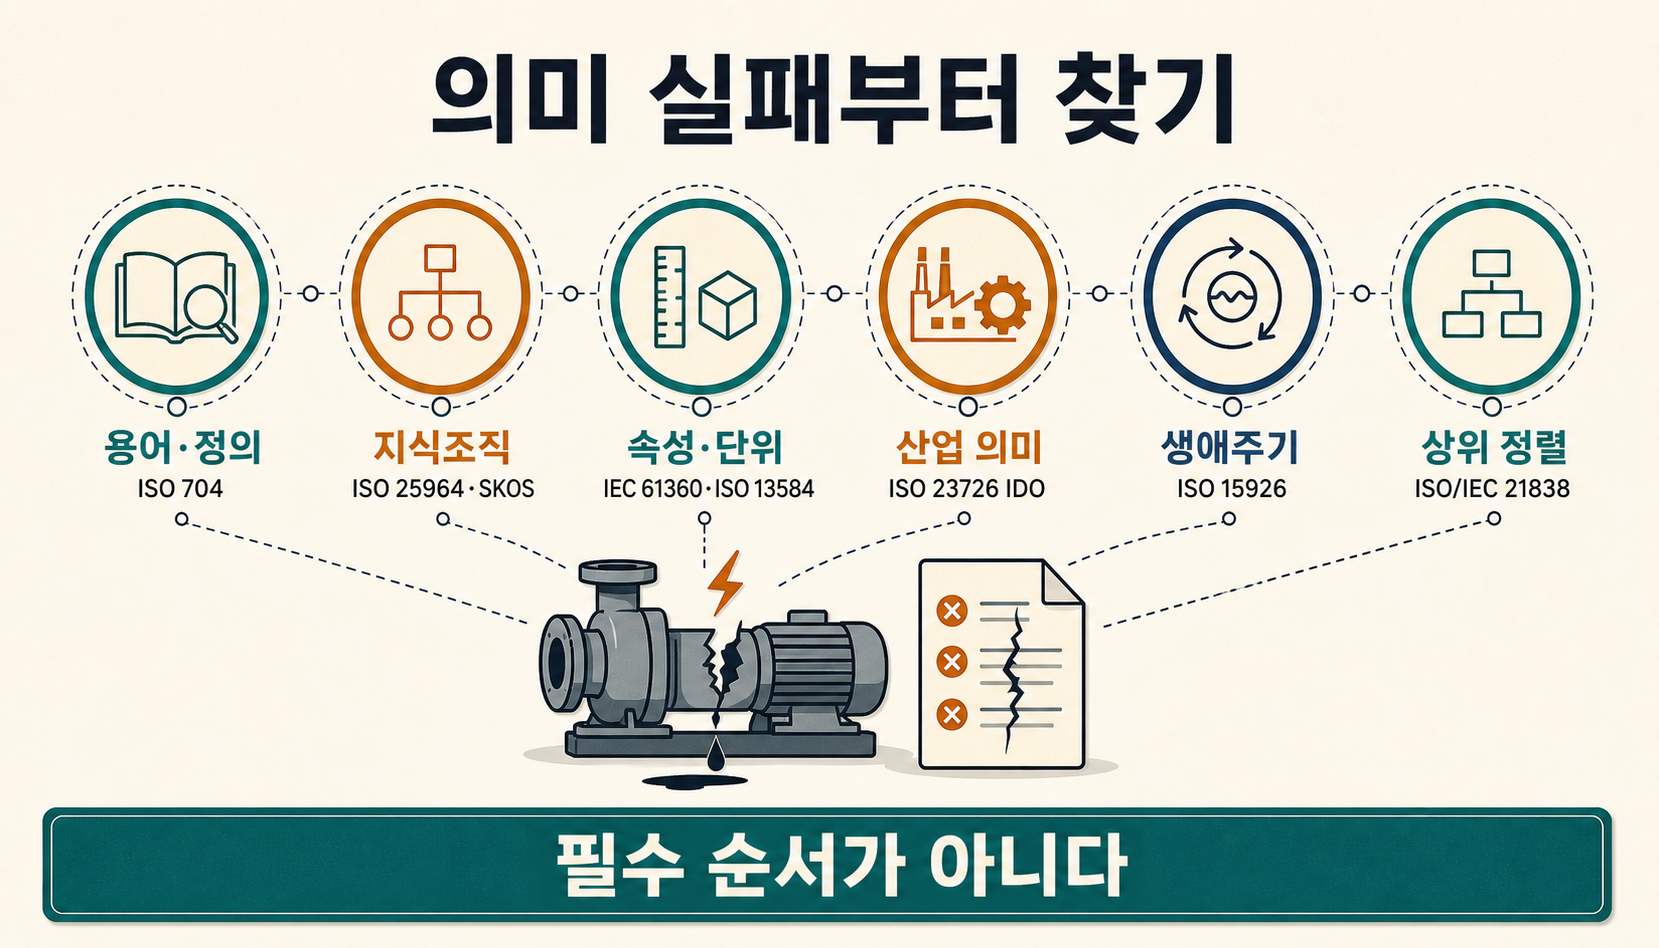
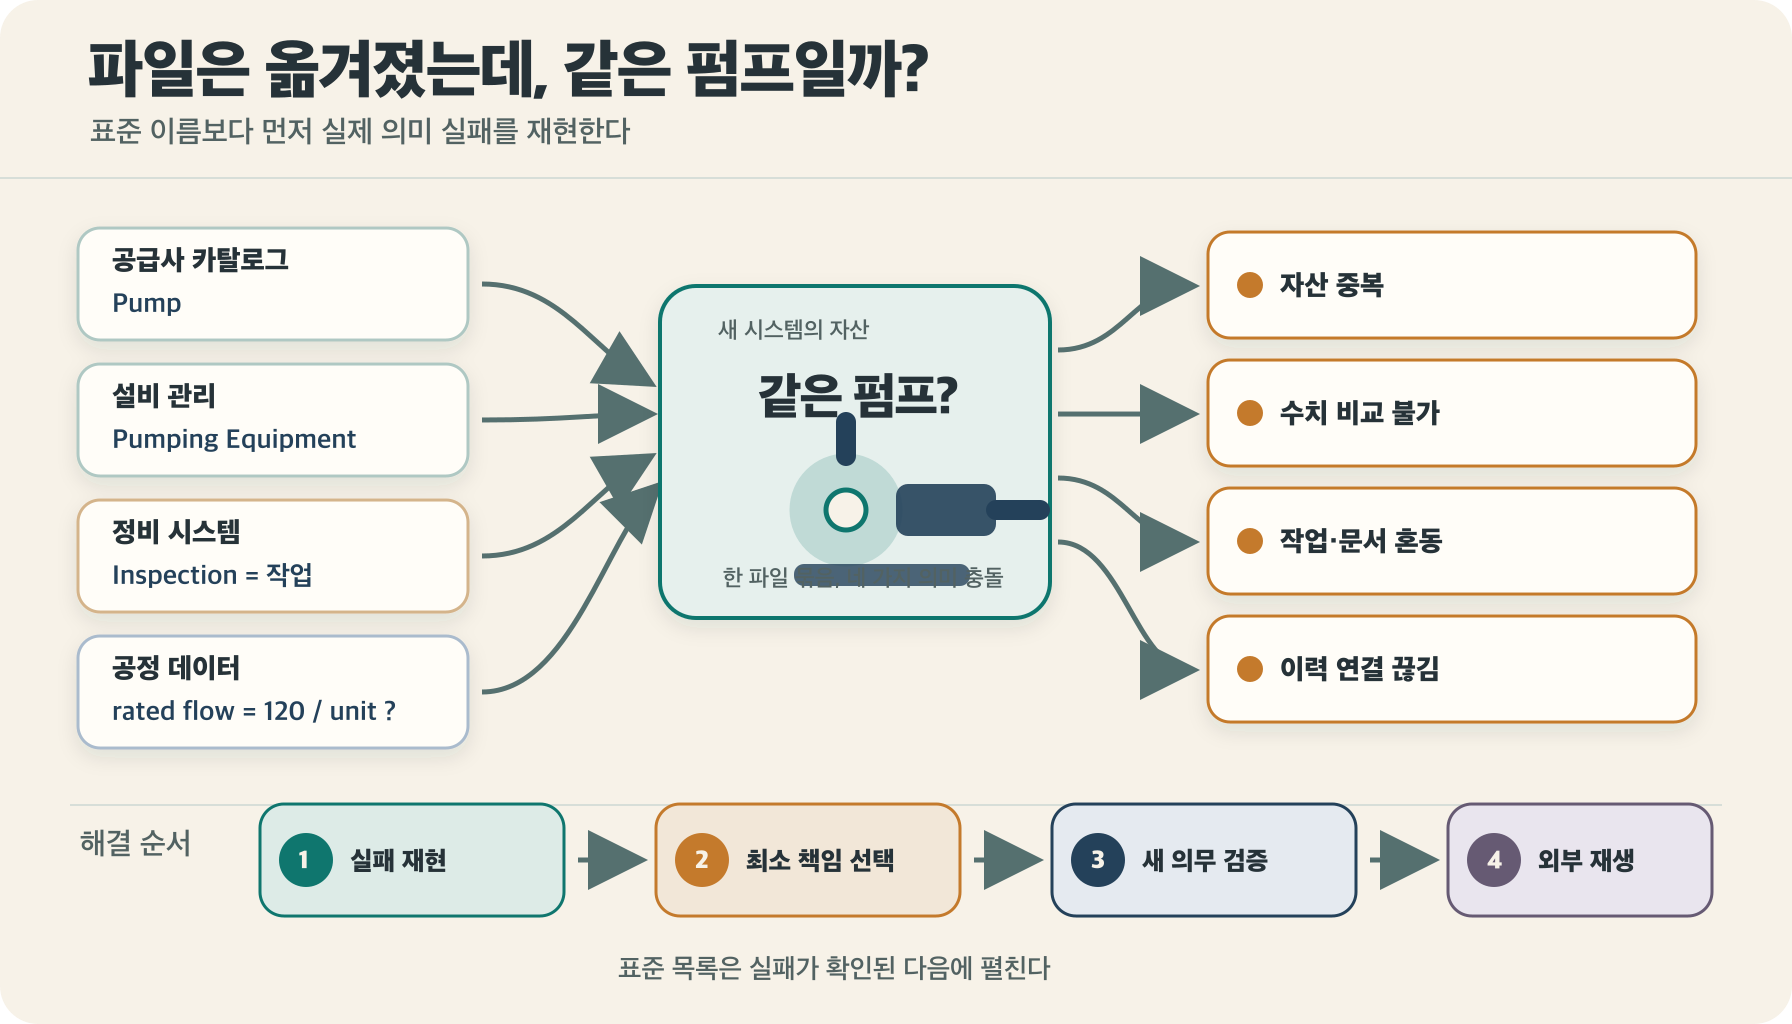
Reframe ontology standards guide around failures

diff --git a/content/notes/온톨로지/industrial-ontology-standards-responsibility-map.md b/content/notes/온톨로지/industrial-ontology-standards-responsibility-map.md
@@ -1,6 +1,6 @@
 ---
 title: "31. 온톨로지 표준은 왜 이렇게 많은가"
-description: "ISO 704·SKOS·IEC 61360·ISO 23726 IDO·ISO 15926·ISO/IEC 21838을 성숙도 사다리가 아니라 의미 실패별 책임 지도로 읽고, 필요한 최소 표준만 선택하는 방법을 설명합니다."
+description: "플랫폼에서 꺼낸 같은 펌프가 시스템마다 다른 자산·수치·작업·이력으로 해석되는 문제를 출발점으로, 산업 온톨로지 표준을 의미 실패별 책임 지도로 읽고 필요한 최소 책임만 선택하는 방법을 설명합니다."
 date: 2026-08-30
 tags:
   - 온톨로지
@@ -10,44 +10,29 @@ tags:
   - 지식그래프
 ---
 
-![산업 온톨로지 표준을 용어, 지식조직, 속성 사전, 산업 의미 모델, 생애주기 통합, 상위 정렬의 서로 다른 책임으로 나눈 전체 지도](../../attachments/industrial-ontology-standards-responsibility-map/industrial-ontology-standards-responsibility-map-infographic.png)
+![공급사 카탈로그, 설비 관리, 정비, 공정 데이터 플랫폼에서 같은 펌프가 이름·단위·작업·이력 충돌로 갈라지고, 실패 재현 뒤 필요한 의미 책임만 선택하는 흐름](../../attachments/industrial-ontology-standards-responsibility-map/industrial-ontology-standards-responsibility-map-infographic.png)
 
-펌프 하나를 옮겼을 뿐인데, 두 시스템이 정말 같은 펌프를 말하는지 확신할 수 없다면 어디서부터 고쳐야 할까요? 한쪽은 `Pump`, 다른 쪽은 `Pumping Equipment`라고 부릅니다. 정격 유량의 단위와 값 영역도 다르고, 정비 시스템의 `Inspection`은 작업을 뜻하지만 다른 시스템에서는 검사 기록 문서를 뜻할 수도 있습니다.
+플랫폼에서 설비 데이터를 꺼내 새 시스템에 합쳤다고 가정해 보겠습니다. 공급사 카탈로그, 설비 관리, 정비, 공정 데이터 플랫폼의 파일은 모두 들어왔습니다. 그런데 새 화면에는 같은 펌프가 서로 다른 두 자산으로 나타납니다.
 
-답을 찾으려고 표준 목록을 펼치면 오히려 이름이 더 늘어납니다. ISO 704, SKOS, IEC 61360, ISO 13584, ISO 23726, ISO 15926, ISO/IEC 21838이 한꺼번에 등장합니다. 모두 온톨로지와 가까워 보이지만, 같은 문제를 두고 경쟁하는 대안은 아닙니다.
+한 시스템은 `Pump`, 다른 시스템은 `Pumping Equipment`라고 부릅니다. `rated flow = 120`이라는 값은 옮겨졌지만 어느 단위와 값 영역을 따라야 하는지 분명하지 않습니다. 정비 시스템의 `Inspection`은 점검 작업인데, 다른 시스템에서는 점검 결과 문서를 뜻합니다. 설치·운전·정비 이력도 같은 장비를 따라 이어지지 않습니다.
+
+파일 이동은 성공했지만 업무는 재현되지 않습니다. 자산은 중복되고, 수치는 비교할 수 없으며, 작업과 문서가 뒤섞이고, 다음 정비가 어느 이력에서 이어져야 하는지도 알 수 없습니다. [[notes/온톨로지/palantir-platform-exit-readiness|30번 글]]에서 분리했던 `파일 export`와 `실제 업무 이전`의 경계가 이번에는 **의미가 옮겨지지 않는 문제**로 드러난 것입니다.
+
+이때 팀은 “온톨로지 표준을 쓰자”고 말합니다. 검색하면 용어, 속성 사전, 산업 의미 모델, 생애주기 통합, 상위 정렬을 다루는 ISO·IEC·W3C 문서가 한꺼번에 나옵니다. 하지만 문서 이름부터 고르면 방금 실패한 네 가지 문제를 한 덩어리로 취급하게 됩니다. 이 문서들은 같은 문제를 놓고 경쟁하는 제품 목록이 아니라 서로 다른 의미 실패를 맡는 책임들입니다.
 
 > [!summary] 표준 이름보다 먼저 실패한 의미 계약을 찾습니다
 > **산업 온톨로지 표준은 초급에서 고급으로 올라가는 한 줄짜리 기술 스택이 아니라 서로 다른 상호운용 실패를 맡는 책임 지도에 가깝습니다.** 용어가 깨졌다면 용어를, 속성과 단위가 깨졌다면 사전을, 여러 도메인의 상위 범주가 반복 충돌할 때만 top-level ontology 정렬을 검토하는 식으로 필요한 최소 책임부터 고르는 편이 안전합니다.
 
-## 가장 위험한 오해는 표준을 사다리로 보는 것입니다
+## 표준을 펼치기 전에 펌프 하나로 네 번 묻습니다
 
-처음 보면 다음 순서가 그럴듯합니다.
+먼저 실제 데이터와 업무 질문 하나를 고정합니다.
 
 ```text
-ISO 704
-→ SKOS
-→ IEC 61360
-→ IDO
-→ ISO 15926
-→ BFO
+"대표 펌프의 정격 유량과 현재 설치 위치를
+공급사 카탈로그와 정비 시스템에서 같은 의미로 읽을 수 있는가?"
 ```
 
-마치 용어집에서 시작해 더 강한 온톨로지로 올라가는 성숙도 사다리처럼 보입니다. 하지만 공식 범위를 펼치면 이 그림은 바로 깨집니다. [ISO/IEC 21838-1](https://www.iso.org/standard/71954.html)은 domain-neutral top-level ontology의 요구조건을 다루고, [ISO 15926-1](https://www.iso.org/standard/29556.html)은 process plant의 생애주기 정보 통합을 다룹니다. 둘 다 `ontology`라는 단어 근처에 있지만 맡은 일이 다릅니다.
-
-그래서 표준의 높이를 묻기 전에 실패의 종류부터 나눠야 합니다.
-
-| 실제로 깨진 것                        | 먼저 볼 책임             | 대표 표준·규격           |
-| ------------------------------------- | ------------------------ | ------------------------ |
-| 개념·용어·정의                        | terminology              | ISO 704                  |
-| 시소러스·concept scheme·mapping       | knowledge organization   | ISO 25964 + W3C SKOS     |
-| property·단위·값 영역·parts family    | property dictionary      | IEC 61360 + ISO 13584-42 |
-| 여러 산업 시스템의 공통 의미 기반     | industrial-data ontology | ISO 23726 IDO 평가       |
-| 프로세스 플랜트의 장기 생애주기 통합  | lifecycle integration    | ISO 15926 family         |
-| 여러 domain ontology의 상위 범주 충돌 | top-level alignment      | ISO/IEC 21838 + 후보 TLO |
-
-처음의 펌프를 이 지도 위에 놓아 보겠습니다. 공급사 카탈로그, 설비 관리 시스템, 정비 시스템, 공정 데이터 플랫폼에 흩어진 같은 장비를 연결한다고 해도 실패는 하나가 아닙니다. 어떤 시스템은 `pump`, 어떤 곳은 `펌프`를 쓰고, `rated flow`의 단위와 값 영역도 다릅니다. 설치·운전·정비 이력을 길게 이어야 하는 시스템도 있습니다.
-
-겉으로는 모두 `펌프 데이터 통합`처럼 보이지만 하나의 OWL 파일로 곧장 해결하려 하면 책임이 섞입니다.
+이 질문이 실패했다는 말만으로는 부족합니다. 결과를 더 구체적으로 적어야 합니다. `Pump`와 `Pumping Equipment`가 서로 다른 자산으로 등록됐는지, 단위가 불분명해 정격 유량을 비교하지 못하는지, 점검 작업과 점검 문서를 같은 종류로 처리했는지, 설치·운전·정비 이력이 중간에서 끊겼는지 확인합니다.
 
 ![같은 펌프를 둘러싼 용어 불일치, 속성·단위 충돌, 산업 공통 의미, 생애주기 통합, 상위 범주 정렬 문제를 서로 다른 책임으로 분리한 지도](../../attachments/industrial-ontology-standards-responsibility-map/industrial-ontology-standards-responsibility-map-figure-01.png)
 
@@ -58,7 +43,32 @@ ISO 704
 ≠ upper category가 충돌함
 ```
 
-여기서 글의 중심 질문이 선명해집니다. **어느 표준이 더 강한가가 아니라, 지금 무엇이 깨졌는가?** 이름만 맞추면 되는 프로젝트에 top-level ontology는 과할 수 있습니다. 반대로 여러 팀이 `Process`, `Role`, `Quality`, `Information`을 서로 다르게 모델링해 mapping을 매번 다시 만든다면 단순 용어집만으로는 부족합니다. [[notes/온톨로지/ontology-vs-json-rules|6번 글]]에서 다룬 것처럼 다음 층은 관계 재사용·변경 영향·감사 비용이 추가 복잡성을 정당화할 때 올라가면 됩니다.
+**첫째, 실패를 결과로 재현합니다.** 이름 충돌인지, property·unit 충돌인지, object와 process의 구분 실패인지, 장기 이력 연결 실패인지 나눕니다. `데이터가 안 맞는다`처럼 뭉뚱그리면 어떤 표준을 붙여도 효과를 검증할 수 없습니다.
+
+**둘째, 가장 얇은 기준선으로 고칩니다.** 이름과 동의어 문제라면 용어집이나 가벼운 vocabulary가 먼저일 수 있습니다. Property와 단위 문제라면 명시적인 property registry가 필요합니다. 한 시스템의 JSON Schema나 관계형 모델로 충분히 닫히는 문제에 native graph와 top-level ontology까지 한꺼번에 더할 이유는 없습니다.
+
+**셋째, 다음 책임이 새 의무를 해결하는지 확인합니다.** 산업 데이터 foundation이나 상위 정렬 계층을 추가했다면 표준을 더 많이 썼다는 사실이 아니라 중복 mapping이 재사용되는지, 이전에 충돌하던 상위 category를 일관되게 판정하는지, cross-domain competency query가 통과하는지, 변경 영향을 더 잘 찾는지를 봅니다. 이번 연구에서는 동일 industrial corpus로 비용·정확도 비교 실험을 실행하지 않았으므로 개선 수치를 주장하지 않습니다.
+
+**넷째, 외부 환경에서 다시 재생합니다.** 선택한 term·property·mapping을 다른 실행 환경으로 옮긴 뒤 같은 질문을 다시 던집니다. 파일이 열리는지만 보지 않고 같은 펌프, 같은 수치, 같은 작업과 같은 이력을 복원하는지 확인합니다. 이 단계가 30번 글의 exit readiness를 의미 계층에서 이어 받습니다.
+
+이 네 질문을 통과한 뒤에야 표준 이름을 펼칩니다. 이름과 동의어만 맞추면 되는 조직에 top-level ontology까지 도입하는 것은 과할 수 있습니다. 반대로 여러 팀이 `Process`, `Role`, `Quality`, `Information`을 서로 다르게 모델링해 mapping을 매번 다시 만든다면 단순 용어집만으로는 부족합니다.
+
+## 그제야 표준 책임 지도를 펼칩니다
+
+| 실제로 깨진 것                        | 먼저 볼 책임             | 대표 표준·규격           |
+| ------------------------------------- | ------------------------ | ------------------------ |
+| 개념·용어·정의                        | terminology              | ISO 704                  |
+| 시소러스·concept scheme·mapping       | knowledge organization   | ISO 25964 + W3C SKOS     |
+| property·단위·값 영역·parts family    | property dictionary      | IEC 61360 + ISO 13584-42 |
+| 여러 산업 시스템의 공통 의미 기반     | industrial-data ontology | ISO 23726 IDO 평가       |
+| 프로세스 플랜트의 장기 생애주기 통합  | lifecycle integration    | ISO 15926 family         |
+| 여러 domain ontology의 상위 범주 충돌 | top-level alignment      | ISO/IEC 21838 + 후보 TLO |
+
+이 표는 ISO가 규정한 성숙도 사다리도, 아래에서 위로 반드시 import해야 하는 설치 순서도 아닙니다. 한 프로젝트는 ISO 704와 SKOS만으로 문제를 닫을 수 있고, 프로세스 산업에서는 ISO 15926 계열이 중심이 될 수 있습니다.
+
+[ISO/IEC 21838-1](https://www.iso.org/standard/71954.html)은 domain-neutral top-level ontology의 요구조건을 다루고, [ISO 15926-1](https://www.iso.org/standard/29556.html)은 process plant의 생애주기 정보 통합을 다룹니다. 둘 다 `ontology`라는 단어 근처에 있지만 맡은 일이 다릅니다.
+
+그래서 표준의 높이를 묻기 전에 실패의 종류부터 나눠야 합니다. **어느 표준이 더 강한가가 아니라, 지금 무엇이 깨졌는가?** [[notes/온톨로지/ontology-vs-json-rules|6번 글]]에서 다룬 것처럼 다음 층은 관계 재사용·변경 영향·감사 비용이 추가 복잡성을 정당화할 때 올라가면 됩니다.
 
 ## 이름을 맞추면 끝날 것 같았습니다
 
@@ -163,26 +173,7 @@ TLO의 가치는 `가장 높은 단계`라서 생기지 않습니다. 설비 ont
 
 질문은 `오래됐는가`가 아닙니다. **내 문제가 process-plant lifecycle integration인가**입니다.
 
-이제 표준 이름을 외우는 대신 실제 선택 절차로 바꿔 보겠습니다.
-
-## 펌프 하나로 표준을 고르는 네 번의 질문
-
-```text
-"대표 펌프의 정격 유량과 현재 설치 위치를
-공급사 카탈로그와 정비 시스템에서 같은 의미로 읽을 수 있는가?"
-```
-
-**어디서 실패하는가?** 이름 때문인지, property·unit 때문인지, object/process 구분 때문인지 먼저 재현합니다.
-
-**가장 얇은 기준선으로 고칠 수 있는가?** 용어 문제면 ISO 704와 SKOS부터, property 문제면 IEC 61360식 registry부터 검토할 수 있습니다. 기존 relational schema로 충분히 검증되는 문제에 native graph와 TLO까지 한꺼번에 더할 이유는 없습니다.
-
-**다음 층이 정말 새 의무를 해결하는가?** IDO나 TLO를 추가했다면 중복 mapping이 실제로 재사용되는지, 상위 category 충돌을 더 일관되게 판정하는지, cross-domain competency query가 통과하는지, 변경 영향을 더 잘 찾는지 확인해야 합니다. 이번 연구에서는 동일 industrial corpus로 비용·정확도 비교 실험을 실행하지 않았으므로 개선 수치를 주장하지 않습니다.
-
-**그 층을 떼어도 domain이 살아 있는가?** optional alignment를 제거했을 때 domain ontology가 독립적으로 동작하는지, term·property·mapping을 외부 환경으로 옮길 수 있는지 봅니다.
-
-네 질문을 거치면 `어느 표준이 더 권위 있는가` 대신 **이 표준이 지금 실패한 책임을 실제로 고치며 그 효과를 검증할 수 있는가**를 묻게 됩니다.
-
-그런데 여기서 마지막 함정이 하나 더 남습니다. 표준으로 정리한 의미가 조직 밖으로도 따라갈까요?
+여기까지 각 표준의 책임을 나눴다면 마지막에는 처음의 네 번째 질문으로 돌아가야 합니다. **표준으로 정리한 의미가 조직 밖에서도 같은 업무로 재생되는가?**
 
 ## 표준을 썼는데도 의미는 남겨질 수 있습니다
 
